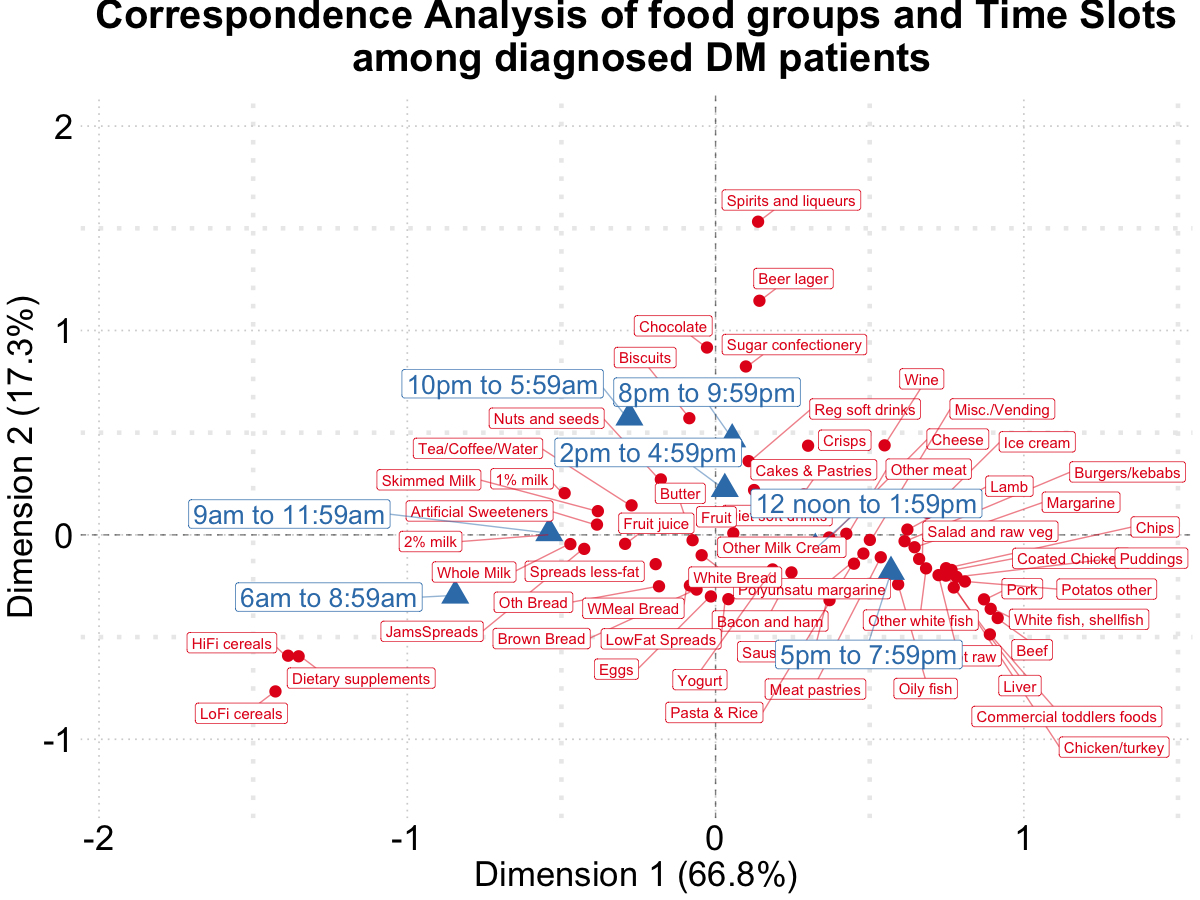
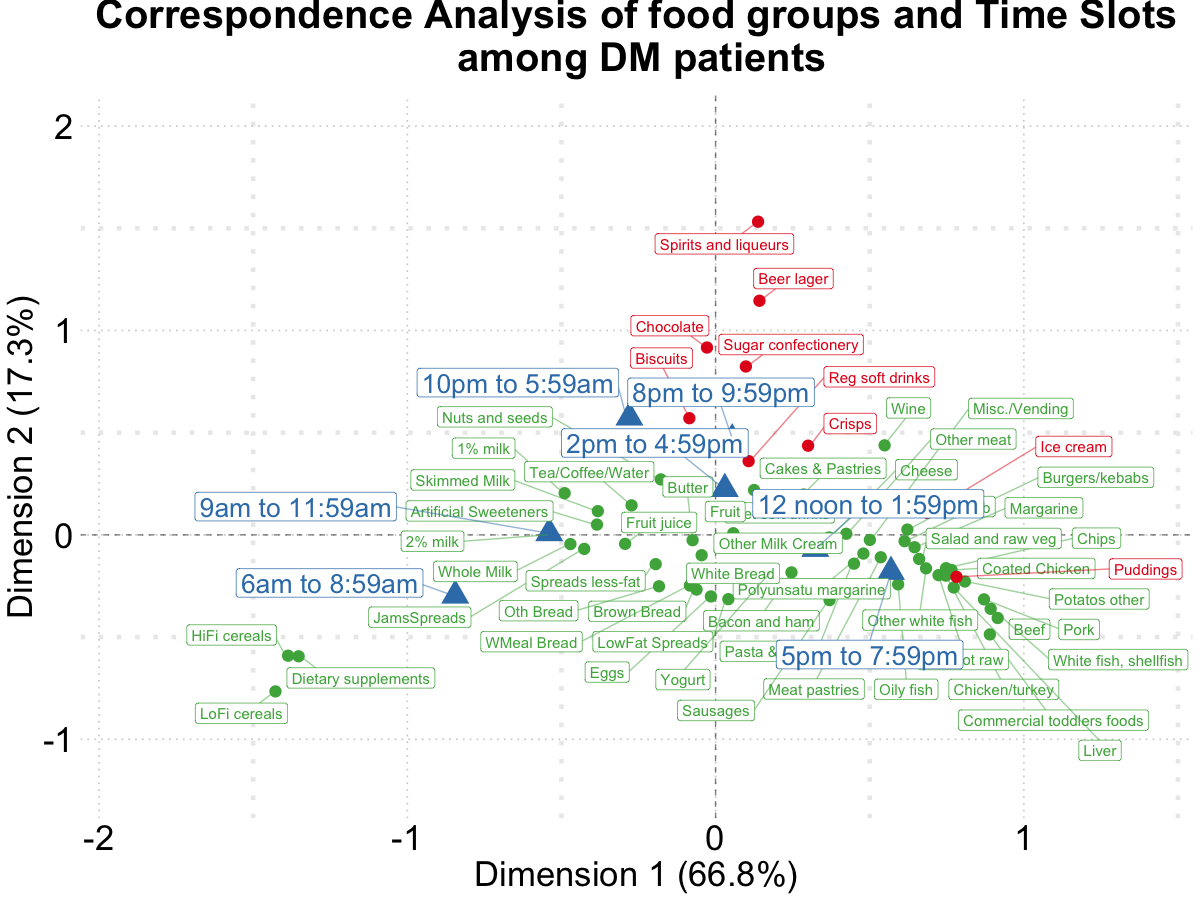
figure color updated

Changed region(s): [[0.1542, 0.3422, 1.0, 0.8711], [0.2775, 0.0311, 0.7708, 0.0933], [0.555, 0.2178, 0.7092, 0.28]]

diff --git a/index.html b/index.html
@@ -755,8 +755,8 @@ background-size: contain
 class: middle, center
 ### The full contingency table of food recordings and eating locations
 .small[
-<div id="htmlwidget-a9d205f41663651dd4ea" style="width:100%;height:auto;" class="datatables html-widget"></div>
-<script type="application/json" data-for="htmlwidget-a9d205f41663651dd4ea">{"x":{"filter":"none","fillContainer":false,"data":[["1% milk","2% milk","Artificial Sweeteners","Bacon and ham","Beef","Beer lager","Biscuits","Brown Bread","Burgers/kebabs","Butter","Cakes & Pastries","Cheese","Chicken/turkey","Chips","Chocolate","Coated Chicken","Commercial toddlers foods","Crisps","Diet soft drinks","Dietary supplements","Eggs","Fruit","Fruit juice","HiFi cereals","Ice cream","JamsSpreads","Lamb","Liver","LoFi cereals","LowFat Spreads","Margarine","Meat pastries","Misc./Vending","Nuts and seeds","Oily fish","Oth Bread","Other meat","Other Milk Cream","Other white fish","Pasta & Rice","Polyunsatu margarine","Pork","Potatos other","Puddings","Reg soft drinks","Salad and raw veg","Sausages","Skimmed Milk","Smoothies","Spirits and liqueurs","Spreads less-fat","Sugar confectionery","Tea/Coffee/Water","Veg not raw","White Bread","White fish, shellfish","Whole Milk","Wine","WMeal Bread","Yogurt"],[0,183,4,81,59,91,105,17,27,64,88,73,95,139,105,46,0,114,265,9,57,101,56,27,35,160,13,2,35,15,45,23,278,8,3,2,10,29,14,222,13,24,65,23,333,120,59,12,2,22,81,41,382,307,179,12,48,21,19,27],[101,4318,119,953,691,92,1407,613,162,940,853,1213,1321,1290,1077,430,5,1211,3936,495,784,2595,1450,1099,362,2956,179,20,1365,352,1107,243,5905,326,143,49,121,442,343,3325,487,255,1234,266,2659,2556,561,259,55,24,1522,387,7798,6122,2718,201,1267,86,491,745],[1,41,0,117,39,108,96,29,108,47,113,139,148,363,120,155,0,98,248,2,48,79,97,3,84,90,6,1,6,5,41,34,420,25,11,4,26,112,40,198,13,30,36,28,673,339,80,1,4,77,59,102,466,258,260,21,14,24,11,17],[2,19,3,42,0,5,95,21,24,17,46,29,43,79,117,35,0,130,76,7,12,119,13,0,21,39,1,0,4,3,7,27,113,8,6,3,10,23,9,35,3,4,6,1,196,91,14,0,3,0,40,100,173,37,103,4,5,0,16,7],[1,49,0,61,14,46,127,28,23,34,68,67,56,105,147,24,0,157,170,21,15,156,44,7,41,73,4,1,9,10,32,35,210,17,5,3,10,28,16,86,7,6,11,4,296,112,27,4,3,16,36,99,407,96,145,4,20,5,14,28],[4,87,1,473,59,0,710,176,31,152,332,451,383,184,331,67,0,667,453,10,47,776,262,8,21,177,6,1,12,93,58,86,677,61,9,18,36,81,109,441,17,28,93,80,567,531,93,0,7,0,478,170,1462,333,989,37,11,2,158,192],[0,71,2,54,7,2,57,25,8,19,27,39,41,33,32,12,0,59,80,3,14,63,18,1,5,79,1,0,1,11,7,11,92,5,1,1,9,7,19,29,5,1,7,6,103,76,13,1,2,0,52,12,318,43,111,3,21,1,17,16]],"container":"<table class=\"display\">\n  <thead>\n    <tr>\n      <th> <\/th>\n      <th>Friend<\/th>\n      <th>Home<\/th>\n      <th>Leis<\/th>\n      <th>Move<\/th>\n      <th>Other<\/th>\n      <th>School<\/th>\n      <th>Work<\/th>\n    <\/tr>\n  <\/thead>\n<\/table>","options":{"pageLength":4,"columnDefs":[{"className":"dt-right","targets":[1,2,3,4,5,6,7]},{"orderable":false,"targets":0}],"order":[],"autoWidth":false,"orderClasses":false,"lengthMenu":[4,10,25,50,100]}},"evals":[],"jsHooks":[]}</script>
+<div id="htmlwidget-0e0bcf6b07ae967ca821" style="width:100%;height:auto;" class="datatables html-widget"></div>
+<script type="application/json" data-for="htmlwidget-0e0bcf6b07ae967ca821">{"x":{"filter":"none","fillContainer":false,"data":[["1% milk","2% milk","Artificial Sweeteners","Bacon and ham","Beef","Beer lager","Biscuits","Brown Bread","Burgers/kebabs","Butter","Cakes & Pastries","Cheese","Chicken/turkey","Chips","Chocolate","Coated Chicken","Commercial toddlers foods","Crisps","Diet soft drinks","Dietary supplements","Eggs","Fruit","Fruit juice","HiFi cereals","Ice cream","JamsSpreads","Lamb","Liver","LoFi cereals","LowFat Spreads","Margarine","Meat pastries","Misc./Vending","Nuts and seeds","Oily fish","Oth Bread","Other meat","Other Milk Cream","Other white fish","Pasta & Rice","Polyunsatu margarine","Pork","Potatos other","Puddings","Reg soft drinks","Salad and raw veg","Sausages","Skimmed Milk","Smoothies","Spirits and liqueurs","Spreads less-fat","Sugar confectionery","Tea/Coffee/Water","Veg not raw","White Bread","White fish, shellfish","Whole Milk","Wine","WMeal Bread","Yogurt"],[0,183,4,81,59,91,105,17,27,64,88,73,95,139,105,46,0,114,265,9,57,101,56,27,35,160,13,2,35,15,45,23,278,8,3,2,10,29,14,222,13,24,65,23,333,120,59,12,2,22,81,41,382,307,179,12,48,21,19,27],[101,4318,119,953,691,92,1407,613,162,940,853,1213,1321,1290,1077,430,5,1211,3936,495,784,2595,1450,1099,362,2956,179,20,1365,352,1107,243,5905,326,143,49,121,442,343,3325,487,255,1234,266,2659,2556,561,259,55,24,1522,387,7798,6122,2718,201,1267,86,491,745],[1,41,0,117,39,108,96,29,108,47,113,139,148,363,120,155,0,98,248,2,48,79,97,3,84,90,6,1,6,5,41,34,420,25,11,4,26,112,40,198,13,30,36,28,673,339,80,1,4,77,59,102,466,258,260,21,14,24,11,17],[2,19,3,42,0,5,95,21,24,17,46,29,43,79,117,35,0,130,76,7,12,119,13,0,21,39,1,0,4,3,7,27,113,8,6,3,10,23,9,35,3,4,6,1,196,91,14,0,3,0,40,100,173,37,103,4,5,0,16,7],[1,49,0,61,14,46,127,28,23,34,68,67,56,105,147,24,0,157,170,21,15,156,44,7,41,73,4,1,9,10,32,35,210,17,5,3,10,28,16,86,7,6,11,4,296,112,27,4,3,16,36,99,407,96,145,4,20,5,14,28],[4,87,1,473,59,0,710,176,31,152,332,451,383,184,331,67,0,667,453,10,47,776,262,8,21,177,6,1,12,93,58,86,677,61,9,18,36,81,109,441,17,28,93,80,567,531,93,0,7,0,478,170,1462,333,989,37,11,2,158,192],[0,71,2,54,7,2,57,25,8,19,27,39,41,33,32,12,0,59,80,3,14,63,18,1,5,79,1,0,1,11,7,11,92,5,1,1,9,7,19,29,5,1,7,6,103,76,13,1,2,0,52,12,318,43,111,3,21,1,17,16]],"container":"<table class=\"display\">\n  <thead>\n    <tr>\n      <th> <\/th>\n      <th>Friend<\/th>\n      <th>Home<\/th>\n      <th>Leis<\/th>\n      <th>Move<\/th>\n      <th>Other<\/th>\n      <th>School<\/th>\n      <th>Work<\/th>\n    <\/tr>\n  <\/thead>\n<\/table>","options":{"pageLength":4,"columnDefs":[{"className":"dt-right","targets":[1,2,3,4,5,6,7]},{"orderable":false,"targets":0}],"order":[],"autoWidth":false,"orderClasses":false,"lengthMenu":[4,10,25,50,100]}},"evals":[],"jsHooks":[]}</script>
 ]
 
 ---
@@ -843,8 +843,8 @@ class: middle
 ### Frequencies and proportions of food recordings by eating locations
 
 .small[
-<div id="htmlwidget-ea1afe683a721c58b9cb" style="width:100%;height:auto;" class="datatables html-widget"></div>
-<script type="application/json" data-for="htmlwidget-ea1afe683a721c58b9cb">{"x":{"filter":"none","fillContainer":false,"data":[["1","2","3","4","5","6","7","8","9","10","11","12","13","14","15","16","17","18","19","20","21","22","23","24","25","26","27","28","29","30","31","32","33","34","35","36"],["Home - Living Room","Home - Kitchen","Home - Dining Room","Home - Unspecified","Home - Bedroom","Friend's or Relative's house","School - Other","School - Canteen - Bought food","School - Canteen - Food from home","Home - Other","Restaurant, pub, night club","Outside - Other","Bus, car, train","School - Playground","Unspecified","Coffee shop, cafe, shop, deli, sandwich bar","Work - Other","Fast food outlet","School - Classroom","Home - Garden","Leisure Activities, shopping, tourist attractions, cinema, places of interest","Sports club, sports leisure venue","Street","Other place","Holiday Accommodation","School - Canteen - Other","Work - Canteen - Food from home","Work - Canteen - Bought food","Work - Desk","Public Hall/Function Room","Not At Home - Unspecified","Work - Canteen - Other","Community Centre/Day Centre/Drop-in","Place of Worship","Carer's home","Nursery/Kindergarten"],[47484,44989,17605,17007,14143,9001,7367,7044,5913,4526,4236,3273,3056,2752,2666,2171,2122,1728,1728,1458,1365,1077,1060,703,641,597,458,444,315,236,230,224,214,161,38,5],["22.825%","21.625%","8.462%","8.175%","6.798%","4.327%","3.541%","3.386%","2.842%","2.176%","2.036%","1.573%","1.469%","1.323%","1.282%","1.044%","1.02%","0.831%","0.831%","0.701%","0.656%","0.518%","0.51%","0.338%","0.308%","0.287%","0.22%","0.213%","0.151%","0.113%","0.111%","0.108%","0.103%","0.077%","0.018%","0.002%"],["22.825%","44.45%","52.913%","61.088%","67.886%","72.213%","75.754%","79.14%","81.982%","84.158%","86.194%","87.767%","89.236%","90.559%","91.84%","92.884%","93.904%","94.735%","95.565%","96.266%","96.922%","97.44%","97.949%","98.287%","98.595%","98.882%","99.103%","99.316%","99.467%","99.581%","99.691%","99.799%","99.902%","99.979%","99.998%","100%"]],"container":"<table class=\"display\">\n  <thead>\n    <tr>\n      <th> <\/th>\n      <th>Where<\/th>\n      <th>n<\/th>\n      <th>rel.freq<\/th>\n      <th>cumprop<\/th>\n    <\/tr>\n  <\/thead>\n<\/table>","options":{"pageLength":5,"columnDefs":[{"className":"dt-right","targets":2},{"orderable":false,"targets":0}],"order":[],"autoWidth":false,"orderClasses":false,"lengthMenu":[5,10,25,50,100]}},"evals":[],"jsHooks":[]}</script>
+<div id="htmlwidget-4e894aa2b3fc6557d12a" style="width:100%;height:auto;" class="datatables html-widget"></div>
+<script type="application/json" data-for="htmlwidget-4e894aa2b3fc6557d12a">{"x":{"filter":"none","fillContainer":false,"data":[["1","2","3","4","5","6","7","8","9","10","11","12","13","14","15","16","17","18","19","20","21","22","23","24","25","26","27","28","29","30","31","32","33","34","35","36"],["Home - Living Room","Home - Kitchen","Home - Dining Room","Home - Unspecified","Home - Bedroom","Friend's or Relative's house","School - Other","School - Canteen - Bought food","School - Canteen - Food from home","Home - Other","Restaurant, pub, night club","Outside - Other","Bus, car, train","School - Playground","Unspecified","Coffee shop, cafe, shop, deli, sandwich bar","Work - Other","Fast food outlet","School - Classroom","Home - Garden","Leisure Activities, shopping, tourist attractions, cinema, places of interest","Sports club, sports leisure venue","Street","Other place","Holiday Accommodation","School - Canteen - Other","Work - Canteen - Food from home","Work - Canteen - Bought food","Work - Desk","Public Hall/Function Room","Not At Home - Unspecified","Work - Canteen - Other","Community Centre/Day Centre/Drop-in","Place of Worship","Carer's home","Nursery/Kindergarten"],[47484,44989,17605,17007,14143,9001,7367,7044,5913,4526,4236,3273,3056,2752,2666,2171,2122,1728,1728,1458,1365,1077,1060,703,641,597,458,444,315,236,230,224,214,161,38,5],["22.825%","21.625%","8.462%","8.175%","6.798%","4.327%","3.541%","3.386%","2.842%","2.176%","2.036%","1.573%","1.469%","1.323%","1.282%","1.044%","1.02%","0.831%","0.831%","0.701%","0.656%","0.518%","0.51%","0.338%","0.308%","0.287%","0.22%","0.213%","0.151%","0.113%","0.111%","0.108%","0.103%","0.077%","0.018%","0.002%"],["22.825%","44.45%","52.913%","61.088%","67.886%","72.213%","75.754%","79.14%","81.982%","84.158%","86.194%","87.767%","89.236%","90.559%","91.84%","92.884%","93.904%","94.735%","95.565%","96.266%","96.922%","97.44%","97.949%","98.287%","98.595%","98.882%","99.103%","99.316%","99.467%","99.581%","99.691%","99.799%","99.902%","99.979%","99.998%","100%"]],"container":"<table class=\"display\">\n  <thead>\n    <tr>\n      <th> <\/th>\n      <th>Where<\/th>\n      <th>n<\/th>\n      <th>rel.freq<\/th>\n      <th>cumprop<\/th>\n    <\/tr>\n  <\/thead>\n<\/table>","options":{"pageLength":5,"columnDefs":[{"className":"dt-right","targets":2},{"orderable":false,"targets":0}],"order":[],"autoWidth":false,"orderClasses":false,"lengthMenu":[5,10,25,50,100]}},"evals":[],"jsHooks":[]}</script>
 ]
 
 ---
@@ -872,16 +872,16 @@ class:
 ### Food groups and contribution to calories
 
 .small[
-<div id="htmlwidget-2a76d6beb78821871020" style="width:100%;height:auto;" class="datatables html-widget"></div>
-<script type="application/json" data-for="htmlwidget-2a76d6beb78821871020">{"x":{"filter":"none","fillContainer":false,"data":[["1","2","3","4","5","6","7","8","9","10","11","12","13","14","15","16","17","18","19","20","21","22","23","24","25","26","27","28","29","30","31","32","33","34","35","36","37","38","39","40","41","42","43","44","45","46","47","48","49","50","51","52","53","54","55","56","57","58","59","60"],["Pasta & Rice","White Bread","Chips","Reg soft drinks","Biscuits","Cakes & Pastries","Crisps","Chocolate","Chicken/turkey","Misc./Vending","2% milk","Cheese","Veg not raw","LoFi cereals","Coated Chicken","Sausages","Fruit","HiFi cereals","Beef","Potatos other","Meat pastries","JamsSpreads","Spreads less-fat","Fruit juice","Brown Bread","Bacon and ham","Burgers/kebabs","Whole Milk","Butter","Yogurt","Eggs","Sugar confectionery","WMeal Bread","Ice cream","Other Milk Cream","Puddings","White fish, shellfish","Pork","Beer lager","Margarine","Other white fish","Nuts and seeds","Lamb","Other meat","Oily fish","Salad and raw veg","Polyunsatu margarine","LowFat Spreads","Spirits and liqueurs","Oth Bread","Diet soft drinks","Wine","Skimmed Milk","Smoothies","Tea/Coffee/Water","1% milk","Liver","Dietary supplements","Commercial toddlers foods","Artificial Sweeteners"],[8625,9180,4383,9650,5101,3090,4752,3855,4155,15474,9561,4049,14371,2806,1477,1627,7742,2381,1774,2946,930,7108,4530,3885,1777,3522,789,2758,2506,2073,2019,1858,1401,1129,1481,822,560,663,647,2494,1097,900,388,428,372,7600,1054,975,276,173,10471,271,579,135,21750,204,50,1108,14,241],[1.45,3.7,0.26,3.1,19.88,18.63,13.39,25.38,0.99,9.9,1,21.99,-7.03,13.42,6.71,15.5,-3.13,4.46,2.11,-1.4,15.44,15.25,23.73,2.07,0.42,15.66,14.28,2.41,24.32,4.69,3.75,13.53,2.03,15.25,9.74,9.16,3.73,4.5,1.26,19.58,0.95,5.33,6.69,19.35,5.04,-7.47,19.94,18.18,4.07,6.04,0.36,1.29,-0.47,2.81,-0.06,0.95,18.5,4.48,15.36,3.09],["4.15%","4.41%","2.11%","4.64%","2.45%","1.49%","2.28%","1.85%","2%","7.44%","4.6%","1.95%","6.91%","1.35%","0.71%","0.78%","3.72%","1.14%","0.85%","1.42%","0.45%","3.42%","2.18%","1.87%","0.85%","1.69%","0.38%","1.33%","1.2%","1%","0.97%","0.89%","0.67%","0.54%","0.71%","0.4%","0.27%","0.32%","0.31%","1.2%","0.53%","0.43%","0.19%","0.21%","0.18%","3.65%","0.51%","0.47%","0.13%","0.08%","5.03%","0.13%","0.28%","0.06%","10.45%","0.1%","0.02%","0.53%","0.01%","0.12%"],["10.51%","8.64%","5.8%","4.93%","4.07%","3.7%","3.61%","3.56%","3.36%","2.89%","2.71%","2.54%","2.31%","2.24%","2.22%","2.1%","1.88%","1.87%","1.86%","1.84%","1.72%","1.64%","1.6%","1.58%","1.57%","1.53%","1.34%","1.27%","1.22%","1.19%","1.16%","1.16%","1.16%","1.09%","1.05%","0.85%","0.72%","0.68%","0.6%","0.55%","0.48%","0.46%","0.46%","0.36%","0.35%","0.26%","0.2%","0.2%","0.16%","0.15%","0.13%","0.11%","0.11%","0.08%","0.06%","0.05%","0.04%","0.02%","0%","0%"],["10.51%","19.149%","24.945%","29.871%","33.945%","37.645%","41.254%","44.817%","48.173%","51.061%","53.767%","56.304%","58.615%","60.852%","63.073%","65.176%","67.059%","68.925%","70.786%","72.631%","74.348%","75.991%","77.589%","79.17%","80.74%","82.268%","83.612%","84.882%","86.102%","87.292%","88.457%","89.616%","90.773%","91.867%","92.913%","93.763%","94.481%","95.158%","95.761%","96.309%","96.787%","97.248%","97.706%","98.066%","98.415%","98.672%","98.876%","99.074%","99.237%","99.391%","99.522%","99.636%","99.743%","99.827%","99.888%","99.942%","99.98%","99.996%","99.999%","100%"]],"container":"<table class=\"display\">\n  <thead>\n    <tr>\n      <th> <\/th>\n      <th>mfgLab<\/th>\n      <th>n<\/th>\n      <th>Hpoint<\/th>\n      <th>n.freq<\/th>\n      <th>cal.Prop<\/th>\n      <th>calcumprop<\/th>\n    <\/tr>\n  <\/thead>\n<\/table>","options":{"pageLength":6,"columnDefs":[{"className":"dt-right","targets":[2,3]},{"orderable":false,"targets":0}],"order":[],"autoWidth":false,"orderClasses":false,"lengthMenu":[6,10,25,50,100]}},"evals":[],"jsHooks":[]}</script>
+<div id="htmlwidget-47e9fecd4b003d858dc5" style="width:100%;height:auto;" class="datatables html-widget"></div>
+<script type="application/json" data-for="htmlwidget-47e9fecd4b003d858dc5">{"x":{"filter":"none","fillContainer":false,"data":[["1","2","3","4","5","6","7","8","9","10","11","12","13","14","15","16","17","18","19","20","21","22","23","24","25","26","27","28","29","30","31","32","33","34","35","36","37","38","39","40","41","42","43","44","45","46","47","48","49","50","51","52","53","54","55","56","57","58","59","60"],["Pasta & Rice","White Bread","Chips","Reg soft drinks","Biscuits","Cakes & Pastries","Crisps","Chocolate","Chicken/turkey","Misc./Vending","2% milk","Cheese","Veg not raw","LoFi cereals","Coated Chicken","Sausages","Fruit","HiFi cereals","Beef","Potatos other","Meat pastries","JamsSpreads","Spreads less-fat","Fruit juice","Brown Bread","Bacon and ham","Burgers/kebabs","Whole Milk","Butter","Yogurt","Eggs","Sugar confectionery","WMeal Bread","Ice cream","Other Milk Cream","Puddings","White fish, shellfish","Pork","Beer lager","Margarine","Other white fish","Nuts and seeds","Lamb","Other meat","Oily fish","Salad and raw veg","Polyunsatu margarine","LowFat Spreads","Spirits and liqueurs","Oth Bread","Diet soft drinks","Wine","Skimmed Milk","Smoothies","Tea/Coffee/Water","1% milk","Liver","Dietary supplements","Commercial toddlers foods","Artificial Sweeteners"],[8625,9180,4383,9650,5101,3090,4752,3855,4155,15474,9561,4049,14371,2806,1477,1627,7742,2381,1774,2946,930,7108,4530,3885,1777,3522,789,2758,2506,2073,2019,1858,1401,1129,1481,822,560,663,647,2494,1097,900,388,428,372,7600,1054,975,276,173,10471,271,579,135,21750,204,50,1108,14,241],[1.45,3.7,0.26,3.1,19.88,18.63,13.39,25.38,0.99,9.9,1,21.99,-7.03,13.42,6.71,15.5,-3.13,4.46,2.11,-1.4,15.44,15.25,23.73,2.07,0.42,15.66,14.28,2.41,24.32,4.69,3.75,13.53,2.03,15.25,9.74,9.16,3.73,4.5,1.26,19.58,0.95,5.33,6.69,19.35,5.04,-7.47,19.94,18.18,4.07,6.04,0.36,1.29,-0.47,2.81,-0.06,0.95,18.5,4.48,15.36,3.09],["4.15%","4.41%","2.11%","4.64%","2.45%","1.49%","2.28%","1.85%","2%","7.44%","4.6%","1.95%","6.91%","1.35%","0.71%","0.78%","3.72%","1.14%","0.85%","1.42%","0.45%","3.42%","2.18%","1.87%","0.85%","1.69%","0.38%","1.33%","1.2%","1%","0.97%","0.89%","0.67%","0.54%","0.71%","0.4%","0.27%","0.32%","0.31%","1.2%","0.53%","0.43%","0.19%","0.21%","0.18%","3.65%","0.51%","0.47%","0.13%","0.08%","5.03%","0.13%","0.28%","0.06%","10.45%","0.1%","0.02%","0.53%","0.01%","0.12%"],["10.51%","8.64%","5.8%","4.93%","4.07%","3.7%","3.61%","3.56%","3.36%","2.89%","2.71%","2.54%","2.31%","2.24%","2.22%","2.1%","1.88%","1.87%","1.86%","1.84%","1.72%","1.64%","1.6%","1.58%","1.57%","1.53%","1.34%","1.27%","1.22%","1.19%","1.16%","1.16%","1.16%","1.09%","1.05%","0.85%","0.72%","0.68%","0.6%","0.55%","0.48%","0.46%","0.46%","0.36%","0.35%","0.26%","0.2%","0.2%","0.16%","0.15%","0.13%","0.11%","0.11%","0.08%","0.06%","0.05%","0.04%","0.02%","0%","0%"],["10.51%","19.149%","24.945%","29.871%","33.945%","37.645%","41.254%","44.817%","48.173%","51.061%","53.767%","56.304%","58.615%","60.852%","63.073%","65.176%","67.059%","68.925%","70.786%","72.631%","74.348%","75.991%","77.589%","79.17%","80.74%","82.268%","83.612%","84.882%","86.102%","87.292%","88.457%","89.616%","90.773%","91.867%","92.913%","93.763%","94.481%","95.158%","95.761%","96.309%","96.787%","97.248%","97.706%","98.066%","98.415%","98.672%","98.876%","99.074%","99.237%","99.391%","99.522%","99.636%","99.743%","99.827%","99.888%","99.942%","99.98%","99.996%","99.999%","100%"]],"container":"<table class=\"display\">\n  <thead>\n    <tr>\n      <th> <\/th>\n      <th>mfgLab<\/th>\n      <th>n<\/th>\n      <th>Hpoint<\/th>\n      <th>n.freq<\/th>\n      <th>cal.Prop<\/th>\n      <th>calcumprop<\/th>\n    <\/tr>\n  <\/thead>\n<\/table>","options":{"pageLength":6,"columnDefs":[{"className":"dt-right","targets":[2,3]},{"orderable":false,"targets":0}],"order":[],"autoWidth":false,"orderClasses":false,"lengthMenu":[6,10,25,50,100]}},"evals":[],"jsHooks":[]}</script>
 ]
 
 ---
 class: middle, center
 ### The full contingency table of food recordings and eating locations
 .small[
-<div id="htmlwidget-8610cc3ab76133494b5f" style="width:100%;height:auto;" class="datatables html-widget"></div>
-<script type="application/json" data-for="htmlwidget-8610cc3ab76133494b5f">{"x":{"filter":"none","fillContainer":false,"data":[["1% milk","2% milk","Artificial Sweeteners","Bacon and ham","Beef","Beer lager","Biscuits","Brown Bread","Burgers/kebabs","Butter","Cakes & Pastries","Cheese","Chicken/turkey","Chips","Chocolate","Coated Chicken","Commercial toddlers foods","Crisps","Diet soft drinks","Dietary supplements","Eggs","Fruit","Fruit juice","HiFi cereals","Ice cream","JamsSpreads","Lamb","Liver","LoFi cereals","LowFat Spreads","Margarine","Meat pastries","Misc./Vending","Nuts and seeds","Oily fish","Oth Bread","Other meat","Other Milk Cream","Other white fish","Pasta & Rice","Polyunsatu margarine","Pork","Potatos other","Puddings","Reg soft drinks","Salad and raw veg","Sausages","Skimmed Milk","Smoothies","Spirits and liqueurs","Spreads less-fat","Sugar confectionery","Tea/Coffee/Water","Veg not raw","White Bread","White fish, shellfish","Whole Milk","Wine","WMeal Bread","Yogurt"],[0,183,4,81,59,91,105,17,27,64,88,73,95,139,105,46,0,114,265,9,57,101,56,27,35,160,13,2,35,15,45,23,278,8,3,2,10,29,14,222,13,24,65,23,333,120,59,12,2,22,81,41,382,307,179,12,48,21,19,27],[101,4318,119,953,691,92,1407,613,162,940,853,1213,1321,1290,1077,430,5,1211,3936,495,784,2595,1450,1099,362,2956,179,20,1365,352,1107,243,5905,326,143,49,121,442,343,3325,487,255,1234,266,2659,2556,561,259,55,24,1522,387,7798,6122,2718,201,1267,86,491,745],[1,41,0,117,39,108,96,29,108,47,113,139,148,363,120,155,0,98,248,2,48,79,97,3,84,90,6,1,6,5,41,34,420,25,11,4,26,112,40,198,13,30,36,28,673,339,80,1,4,77,59,102,466,258,260,21,14,24,11,17],[2,19,3,42,0,5,95,21,24,17,46,29,43,79,117,35,0,130,76,7,12,119,13,0,21,39,1,0,4,3,7,27,113,8,6,3,10,23,9,35,3,4,6,1,196,91,14,0,3,0,40,100,173,37,103,4,5,0,16,7],[1,49,0,61,14,46,127,28,23,34,68,67,56,105,147,24,0,157,170,21,15,156,44,7,41,73,4,1,9,10,32,35,210,17,5,3,10,28,16,86,7,6,11,4,296,112,27,4,3,16,36,99,407,96,145,4,20,5,14,28],[4,87,1,473,59,0,710,176,31,152,332,451,383,184,331,67,0,667,453,10,47,776,262,8,21,177,6,1,12,93,58,86,677,61,9,18,36,81,109,441,17,28,93,80,567,531,93,0,7,0,478,170,1462,333,989,37,11,2,158,192],[0,71,2,54,7,2,57,25,8,19,27,39,41,33,32,12,0,59,80,3,14,63,18,1,5,79,1,0,1,11,7,11,92,5,1,1,9,7,19,29,5,1,7,6,103,76,13,1,2,0,52,12,318,43,111,3,21,1,17,16]],"container":"<table class=\"display\">\n  <thead>\n    <tr>\n      <th> <\/th>\n      <th>Friend<\/th>\n      <th>Home<\/th>\n      <th>Leis<\/th>\n      <th>Move<\/th>\n      <th>Other<\/th>\n      <th>School<\/th>\n      <th>Work<\/th>\n    <\/tr>\n  <\/thead>\n<\/table>","options":{"pageLength":4,"columnDefs":[{"className":"dt-right","targets":[1,2,3,4,5,6,7]},{"orderable":false,"targets":0}],"order":[],"autoWidth":false,"orderClasses":false,"lengthMenu":[4,10,25,50,100]}},"evals":[],"jsHooks":[]}</script>
+<div id="htmlwidget-1f745f775d1f492ccb91" style="width:100%;height:auto;" class="datatables html-widget"></div>
+<script type="application/json" data-for="htmlwidget-1f745f775d1f492ccb91">{"x":{"filter":"none","fillContainer":false,"data":[["1% milk","2% milk","Artificial Sweeteners","Bacon and ham","Beef","Beer lager","Biscuits","Brown Bread","Burgers/kebabs","Butter","Cakes & Pastries","Cheese","Chicken/turkey","Chips","Chocolate","Coated Chicken","Commercial toddlers foods","Crisps","Diet soft drinks","Dietary supplements","Eggs","Fruit","Fruit juice","HiFi cereals","Ice cream","JamsSpreads","Lamb","Liver","LoFi cereals","LowFat Spreads","Margarine","Meat pastries","Misc./Vending","Nuts and seeds","Oily fish","Oth Bread","Other meat","Other Milk Cream","Other white fish","Pasta & Rice","Polyunsatu margarine","Pork","Potatos other","Puddings","Reg soft drinks","Salad and raw veg","Sausages","Skimmed Milk","Smoothies","Spirits and liqueurs","Spreads less-fat","Sugar confectionery","Tea/Coffee/Water","Veg not raw","White Bread","White fish, shellfish","Whole Milk","Wine","WMeal Bread","Yogurt"],[0,183,4,81,59,91,105,17,27,64,88,73,95,139,105,46,0,114,265,9,57,101,56,27,35,160,13,2,35,15,45,23,278,8,3,2,10,29,14,222,13,24,65,23,333,120,59,12,2,22,81,41,382,307,179,12,48,21,19,27],[101,4318,119,953,691,92,1407,613,162,940,853,1213,1321,1290,1077,430,5,1211,3936,495,784,2595,1450,1099,362,2956,179,20,1365,352,1107,243,5905,326,143,49,121,442,343,3325,487,255,1234,266,2659,2556,561,259,55,24,1522,387,7798,6122,2718,201,1267,86,491,745],[1,41,0,117,39,108,96,29,108,47,113,139,148,363,120,155,0,98,248,2,48,79,97,3,84,90,6,1,6,5,41,34,420,25,11,4,26,112,40,198,13,30,36,28,673,339,80,1,4,77,59,102,466,258,260,21,14,24,11,17],[2,19,3,42,0,5,95,21,24,17,46,29,43,79,117,35,0,130,76,7,12,119,13,0,21,39,1,0,4,3,7,27,113,8,6,3,10,23,9,35,3,4,6,1,196,91,14,0,3,0,40,100,173,37,103,4,5,0,16,7],[1,49,0,61,14,46,127,28,23,34,68,67,56,105,147,24,0,157,170,21,15,156,44,7,41,73,4,1,9,10,32,35,210,17,5,3,10,28,16,86,7,6,11,4,296,112,27,4,3,16,36,99,407,96,145,4,20,5,14,28],[4,87,1,473,59,0,710,176,31,152,332,451,383,184,331,67,0,667,453,10,47,776,262,8,21,177,6,1,12,93,58,86,677,61,9,18,36,81,109,441,17,28,93,80,567,531,93,0,7,0,478,170,1462,333,989,37,11,2,158,192],[0,71,2,54,7,2,57,25,8,19,27,39,41,33,32,12,0,59,80,3,14,63,18,1,5,79,1,0,1,11,7,11,92,5,1,1,9,7,19,29,5,1,7,6,103,76,13,1,2,0,52,12,318,43,111,3,21,1,17,16]],"container":"<table class=\"display\">\n  <thead>\n    <tr>\n      <th> <\/th>\n      <th>Friend<\/th>\n      <th>Home<\/th>\n      <th>Leis<\/th>\n      <th>Move<\/th>\n      <th>Other<\/th>\n      <th>School<\/th>\n      <th>Work<\/th>\n    <\/tr>\n  <\/thead>\n<\/table>","options":{"pageLength":4,"columnDefs":[{"className":"dt-right","targets":[1,2,3,4,5,6,7]},{"orderable":false,"targets":0}],"order":[],"autoWidth":false,"orderClasses":false,"lengthMenu":[4,10,25,50,100]}},"evals":[],"jsHooks":[]}</script>
 ]
 
 
@@ -1379,8 +1379,8 @@ class: middle
 
 
 .small[
-<div id="htmlwidget-43c9263f6f4523d7a843" style="width:100%;height:auto;" class="datatables html-widget"></div>
-<script type="application/json" data-for="htmlwidget-43c9263f6f4523d7a843">{"x":{"filter":"none","fillContainer":false,"data":[["1","2","3","4","5","6","7","8","9","10","11","12","13","14","15","16","17","18","19","20","21","22","23","24","25","26","27","28","29","30","31","32","33","34","35","36","37","38","39","40","41","42","43","44","45","46","47","48","49","50","51","52","53","54","55","56","57","58","59","60"],["Pasta & Rice","White Bread","Chips","Cakes & Pastries","Veg not raw","Biscuits","Fruit","Misc./Vending","Chicken/turkey","Cheese","Beer lager","2% milk","Potatos other","JamsSpreads","Beef","HiFi cereals","WMeal Bread","Chocolate","Wine","Brown Bread","Butter","Eggs","Reg soft drinks","Spreads less-fat","Crisps","Sausages","Meat pastries","Bacon and ham","Yogurt","LoFi cereals","Nuts and seeds","Oily fish","Whole Milk","White fish, shellfish","Puddings","Other Milk Cream","Pork","Fruit juice","Margarine","Coated Chicken","Other white fish","Lamb","Burgers/kebabs","Ice cream","Salad and raw veg","Spirits and liqueurs","Other meat","Tea/Coffee/Water","Skimmed Milk","Sugar confectionery","Oth Bread","LowFat Spreads","Polyunsatu margarine","Liver","Dietary supplements","Diet soft drinks","1% milk","Smoothies","Artificial Sweeteners","Commercial toddlers foods"],[18353,18434,6749,7806,51317,13200,33903,48597,8863,10983,8199,57611,10113,37960,4987,8215,7193,6495,6967,6183,10203,7554,11387,12620,5664,3025,1979,8467,6776,4303,6259,2610,13628,1597,2291,6605,1832,6960,8742,1170,3703,1251,939,1816,33263,2698,1571,152108,9683,1820,932,3654,3179,454,13016,14155,1263,137,7518,66],[-0.3,3.61,0.09,17.3,-7.03,18.3,-2.81,9.49,0.53,21.54,0.99,1.02,-1.49,14.69,2.34,2.78,2.08,24.9,1.33,1.11,24.35,3.7,3.31,23.45,12.98,15.32,14.77,15.48,3.22,11.62,4.37,6.21,2.24,3.99,8.4,11.58,3.88,1.79,19.59,6.43,1.28,6.42,14.56,15.43,-7.03,4.03,17.03,-0.24,-0.54,14.5,4.96,18.05,19.96,13.57,5.16,0.32,0.97,2.93,1.6,18.55],["2.45%","2.46%","0.9%","1.04%","6.85%","1.76%","4.53%","6.49%","1.18%","1.47%","1.09%","7.69%","1.35%","5.07%","0.67%","1.1%","0.96%","0.87%","0.93%","0.83%","1.36%","1.01%","1.52%","1.68%","0.76%","0.4%","0.26%","1.13%","0.9%","0.57%","0.84%","0.35%","1.82%","0.21%","0.31%","0.88%","0.24%","0.93%","1.17%","0.16%","0.49%","0.17%","0.13%","0.24%","4.44%","0.36%","0.21%","20.31%","1.29%","0.24%","0.12%","0.49%","0.42%","0.06%","1.74%","1.89%","0.17%","0.02%","1%","0.01%"],["7.36%","6.8%","3.95%","3.59%","3.49%","3.49%","3.44%","3.44%","3.39%","3.13%","3.11%","2.73%","2.71%","2.55%","2.36%","2.25%","2.24%","2.19%","2.15%","2.12%","2.02%","2.02%","1.97%","1.78%","1.75%","1.62%","1.56%","1.55%","1.4%","1.17%","1.17%","1.15%","1.11%","1.05%","0.96%","0.91%","0.88%","0.88%","0.86%","0.75%","0.74%","0.72%","0.69%","0.65%","0.62%","0.6%","0.57%","0.37%","0.35%","0.34%","0.31%","0.28%","0.27%","0.14%","0.09%","0.07%","0.06%","0.04%","0.01%","0%"],["7.362%","14.166%","18.116%","21.701%","25.193%","28.678%","32.12%","35.555%","38.947%","42.074%","45.185%","47.916%","50.623%","53.171%","55.528%","57.777%","60.022%","62.215%","64.369%","66.484%","68.509%","70.532%","72.503%","74.283%","76.035%","77.659%","79.22%","80.769%","82.164%","83.338%","84.512%","85.666%","86.778%","87.824%","88.788%","89.698%","90.579%","91.459%","92.319%","93.073%","93.818%","94.535%","95.224%","95.873%","96.495%","97.096%","97.665%","98.033%","98.387%","98.732%","99.045%","99.327%","99.593%","99.734%","99.828%","99.897%","99.955%","99.99%","99.996%","100%"]],"container":"<table class=\"display\">\n  <thead>\n    <tr>\n      <th> <\/th>\n      <th>mfgLab<\/th>\n      <th>n<\/th>\n      <th>Hpoint<\/th>\n      <th>n.freq<\/th>\n      <th>cal.Prop<\/th>\n      <th>calcumprop<\/th>\n    <\/tr>\n  <\/thead>\n<\/table>","options":{"pageLength":6,"columnDefs":[{"className":"dt-right","targets":[2,3]},{"orderable":false,"targets":0}],"order":[],"autoWidth":false,"orderClasses":false,"lengthMenu":[6,10,25,50,100]}},"evals":[],"jsHooks":[]}</script>
+<div id="htmlwidget-2abf250ed4303dcf5647" style="width:100%;height:auto;" class="datatables html-widget"></div>
+<script type="application/json" data-for="htmlwidget-2abf250ed4303dcf5647">{"x":{"filter":"none","fillContainer":false,"data":[["1","2","3","4","5","6","7","8","9","10","11","12","13","14","15","16","17","18","19","20","21","22","23","24","25","26","27","28","29","30","31","32","33","34","35","36","37","38","39","40","41","42","43","44","45","46","47","48","49","50","51","52","53","54","55","56","57","58","59","60"],["Pasta & Rice","White Bread","Chips","Cakes & Pastries","Veg not raw","Biscuits","Fruit","Misc./Vending","Chicken/turkey","Cheese","Beer lager","2% milk","Potatos other","JamsSpreads","Beef","HiFi cereals","WMeal Bread","Chocolate","Wine","Brown Bread","Butter","Eggs","Reg soft drinks","Spreads less-fat","Crisps","Sausages","Meat pastries","Bacon and ham","Yogurt","LoFi cereals","Nuts and seeds","Oily fish","Whole Milk","White fish, shellfish","Puddings","Other Milk Cream","Pork","Fruit juice","Margarine","Coated Chicken","Other white fish","Lamb","Burgers/kebabs","Ice cream","Salad and raw veg","Spirits and liqueurs","Other meat","Tea/Coffee/Water","Skimmed Milk","Sugar confectionery","Oth Bread","LowFat Spreads","Polyunsatu margarine","Liver","Dietary supplements","Diet soft drinks","1% milk","Smoothies","Artificial Sweeteners","Commercial toddlers foods"],[18353,18434,6749,7806,51317,13200,33903,48597,8863,10983,8199,57611,10113,37960,4987,8215,7193,6495,6967,6183,10203,7554,11387,12620,5664,3025,1979,8467,6776,4303,6259,2610,13628,1597,2291,6605,1832,6960,8742,1170,3703,1251,939,1816,33263,2698,1571,152108,9683,1820,932,3654,3179,454,13016,14155,1263,137,7518,66],[-0.3,3.61,0.09,17.3,-7.03,18.3,-2.81,9.49,0.53,21.54,0.99,1.02,-1.49,14.69,2.34,2.78,2.08,24.9,1.33,1.11,24.35,3.7,3.31,23.45,12.98,15.32,14.77,15.48,3.22,11.62,4.37,6.21,2.24,3.99,8.4,11.58,3.88,1.79,19.59,6.43,1.28,6.42,14.56,15.43,-7.03,4.03,17.03,-0.24,-0.54,14.5,4.96,18.05,19.96,13.57,5.16,0.32,0.97,2.93,1.6,18.55],["2.45%","2.46%","0.9%","1.04%","6.85%","1.76%","4.53%","6.49%","1.18%","1.47%","1.09%","7.69%","1.35%","5.07%","0.67%","1.1%","0.96%","0.87%","0.93%","0.83%","1.36%","1.01%","1.52%","1.68%","0.76%","0.4%","0.26%","1.13%","0.9%","0.57%","0.84%","0.35%","1.82%","0.21%","0.31%","0.88%","0.24%","0.93%","1.17%","0.16%","0.49%","0.17%","0.13%","0.24%","4.44%","0.36%","0.21%","20.31%","1.29%","0.24%","0.12%","0.49%","0.42%","0.06%","1.74%","1.89%","0.17%","0.02%","1%","0.01%"],["7.36%","6.8%","3.95%","3.59%","3.49%","3.49%","3.44%","3.44%","3.39%","3.13%","3.11%","2.73%","2.71%","2.55%","2.36%","2.25%","2.24%","2.19%","2.15%","2.12%","2.02%","2.02%","1.97%","1.78%","1.75%","1.62%","1.56%","1.55%","1.4%","1.17%","1.17%","1.15%","1.11%","1.05%","0.96%","0.91%","0.88%","0.88%","0.86%","0.75%","0.74%","0.72%","0.69%","0.65%","0.62%","0.6%","0.57%","0.37%","0.35%","0.34%","0.31%","0.28%","0.27%","0.14%","0.09%","0.07%","0.06%","0.04%","0.01%","0%"],["7.362%","14.166%","18.116%","21.701%","25.193%","28.678%","32.12%","35.555%","38.947%","42.074%","45.185%","47.916%","50.623%","53.171%","55.528%","57.777%","60.022%","62.215%","64.369%","66.484%","68.509%","70.532%","72.503%","74.283%","76.035%","77.659%","79.22%","80.769%","82.164%","83.338%","84.512%","85.666%","86.778%","87.824%","88.788%","89.698%","90.579%","91.459%","92.319%","93.073%","93.818%","94.535%","95.224%","95.873%","96.495%","97.096%","97.665%","98.033%","98.387%","98.732%","99.045%","99.327%","99.593%","99.734%","99.828%","99.897%","99.955%","99.99%","99.996%","100%"]],"container":"<table class=\"display\">\n  <thead>\n    <tr>\n      <th> <\/th>\n      <th>mfgLab<\/th>\n      <th>n<\/th>\n      <th>Hpoint<\/th>\n      <th>n.freq<\/th>\n      <th>cal.Prop<\/th>\n      <th>calcumprop<\/th>\n    <\/tr>\n  <\/thead>\n<\/table>","options":{"pageLength":6,"columnDefs":[{"className":"dt-right","targets":[2,3]},{"orderable":false,"targets":0}],"order":[],"autoWidth":false,"orderClasses":false,"lengthMenu":[6,10,25,50,100]}},"evals":[],"jsHooks":[]}</script>
 ]
 
 
@@ -1389,8 +1389,8 @@ class: middle, center
 ### The full contingency table of food recordings and time slots
 
 .tiny[
-<div id="htmlwidget-781110ca4cb667ae0bef" style="width:100%;height:auto;" class="datatables html-widget"></div>
-<script type="application/json" data-for="htmlwidget-781110ca4cb667ae0bef">{"x":{"filter":"none","fillContainer":false,"data":[["1% milk","2% milk","Artificial Sweeteners","Bacon and ham","Beef","Beer lager","Biscuits","Brown Bread","Burgers/kebabs","Butter","Cakes & Pastries","Cheese","Chicken/turkey","Chips","Chocolate","Coated Chicken","Commercial toddlers foods","Crisps","Diet soft drinks","Dietary supplements","Eggs","Fruit","Fruit juice","HiFi cereals","Ice cream","JamsSpreads","Lamb","Liver","LoFi cereals","LowFat Spreads","Margarine","Meat pastries","Misc./Vending","Nuts and seeds","Oily fish","Oth Bread","Other meat","Other Milk Cream","Other white fish","Pasta & Rice","Polyunsatu margarine","Pork","Potatos other","Puddings","Reg soft drinks","Salad and raw veg","Sausages","Skimmed Milk","Smoothies","Spirits and liqueurs","Spreads less-fat","Sugar confectionery","Tea/Coffee/Water","Veg not raw","White Bread","White fish, shellfish","Whole Milk","Wine","WMeal Bread","Yogurt"],[189,7513,920,209,3,11,417,540,0,812,182,131,19,19,52,0,3,11,361,4685,424,2631,992,2534,0,4639,1,10,1212,330,137,11,877,645,26,76,40,610,8,694,51,4,13,13,295,165,70,1416,12,3,983,40,14297,203,1195,1,1654,3,683,524],[137,6844,832,757,28,34,1173,567,14,876,597,381,96,96,349,6,3,270,679,1244,810,3012,592,1255,8,4477,3,14,704,323,317,68,1608,528,47,79,86,535,58,545,95,15,44,39,551,620,266,1047,14,9,1262,125,16103,669,1775,6,1584,11,674,435],[50,3262,467,1707,435,253,1130,1073,112,1243,778,1916,1011,624,470,115,15,875,1167,137,915,3700,536,102,93,2283,113,72,80,533,802,308,5795,466,414,162,257,446,604,1574,264,169,982,246,1052,5822,301,509,20,31,1776,113,10587,5299,2748,148,792,184,1178,803],[66,3986,591,453,254,440,1405,287,81,548,891,656,571,442,728,91,6,520,1076,74,378,2341,337,41,143,2504,72,20,37,151,448,140,2720,401,147,51,100,431,194,925,143,102,536,147,969,1878,151,626,10,71,549,243,11780,2559,908,72,851,178,296,326],[79,3124,410,906,1462,1014,813,363,219,1085,857,1563,2039,1727,522,300,11,443,1916,121,960,2937,650,43,399,2518,296,76,40,309,1946,349,9386,498,572,70,207,780,673,3934,753,475,2987,498,1396,6086,578,510,4,297,1049,164,10414,13693,1643,448,919,1317,474,808],[48,2530,337,213,306,1467,1013,178,49,385,465,644,544,376,834,64,4,501,1199,121,262,1793,294,69,210,1673,99,23,48,101,663,104,2990,394,151,19,78,386,244,1259,228,107,434,155,920,1814,111,436,4,518,424,165,7327,3022,660,85,645,1376,185,372],[35,1533,219,57,38,826,614,87,12,145,177,182,103,83,303,20,0,228,674,179,56,518,134,95,44,912,16,2,75,45,91,29,859,153,17,13,18,139,39,270,39,7,36,53,527,301,15,309,1,403,190,82,5544,314,280,5,442,376,92,114]],"container":"<table class=\"display\">\n  <thead>\n    <tr>\n      <th> <\/th>\n      <th>6am to 8:59am<\/th>\n      <th>9am to 11:59am<\/th>\n      <th>12 noon to 1:59pm<\/th>\n      <th>2pm to 4:59pm<\/th>\n      <th>5pm to 7:59pm<\/th>\n      <th>8pm to 9:59pm<\/th>\n      <th>10pm to 5:59am<\/th>\n    <\/tr>\n  <\/thead>\n<\/table>","options":{"pageLength":5,"columnDefs":[{"className":"dt-right","targets":[1,2,3,4,5,6,7]},{"orderable":false,"targets":0}],"order":[],"autoWidth":false,"orderClasses":false,"lengthMenu":[5,10,25,50,100]}},"evals":[],"jsHooks":[]}</script>
+<div id="htmlwidget-42432d057cfef9bf254b" style="width:100%;height:auto;" class="datatables html-widget"></div>
+<script type="application/json" data-for="htmlwidget-42432d057cfef9bf254b">{"x":{"filter":"none","fillContainer":false,"data":[["1% milk","2% milk","Artificial Sweeteners","Bacon and ham","Beef","Beer lager","Biscuits","Brown Bread","Burgers/kebabs","Butter","Cakes & Pastries","Cheese","Chicken/turkey","Chips","Chocolate","Coated Chicken","Commercial toddlers foods","Crisps","Diet soft drinks","Dietary supplements","Eggs","Fruit","Fruit juice","HiFi cereals","Ice cream","JamsSpreads","Lamb","Liver","LoFi cereals","LowFat Spreads","Margarine","Meat pastries","Misc./Vending","Nuts and seeds","Oily fish","Oth Bread","Other meat","Other Milk Cream","Other white fish","Pasta & Rice","Polyunsatu margarine","Pork","Potatos other","Puddings","Reg soft drinks","Salad and raw veg","Sausages","Skimmed Milk","Smoothies","Spirits and liqueurs","Spreads less-fat","Sugar confectionery","Tea/Coffee/Water","Veg not raw","White Bread","White fish, shellfish","Whole Milk","Wine","WMeal Bread","Yogurt"],[189,7513,920,209,3,11,417,540,0,812,182,131,19,19,52,0,3,11,361,4685,424,2631,992,2534,0,4639,1,10,1212,330,137,11,877,645,26,76,40,610,8,694,51,4,13,13,295,165,70,1416,12,3,983,40,14297,203,1195,1,1654,3,683,524],[137,6844,832,757,28,34,1173,567,14,876,597,381,96,96,349,6,3,270,679,1244,810,3012,592,1255,8,4477,3,14,704,323,317,68,1608,528,47,79,86,535,58,545,95,15,44,39,551,620,266,1047,14,9,1262,125,16103,669,1775,6,1584,11,674,435],[50,3262,467,1707,435,253,1130,1073,112,1243,778,1916,1011,624,470,115,15,875,1167,137,915,3700,536,102,93,2283,113,72,80,533,802,308,5795,466,414,162,257,446,604,1574,264,169,982,246,1052,5822,301,509,20,31,1776,113,10587,5299,2748,148,792,184,1178,803],[66,3986,591,453,254,440,1405,287,81,548,891,656,571,442,728,91,6,520,1076,74,378,2341,337,41,143,2504,72,20,37,151,448,140,2720,401,147,51,100,431,194,925,143,102,536,147,969,1878,151,626,10,71,549,243,11780,2559,908,72,851,178,296,326],[79,3124,410,906,1462,1014,813,363,219,1085,857,1563,2039,1727,522,300,11,443,1916,121,960,2937,650,43,399,2518,296,76,40,309,1946,349,9386,498,572,70,207,780,673,3934,753,475,2987,498,1396,6086,578,510,4,297,1049,164,10414,13693,1643,448,919,1317,474,808],[48,2530,337,213,306,1467,1013,178,49,385,465,644,544,376,834,64,4,501,1199,121,262,1793,294,69,210,1673,99,23,48,101,663,104,2990,394,151,19,78,386,244,1259,228,107,434,155,920,1814,111,436,4,518,424,165,7327,3022,660,85,645,1376,185,372],[35,1533,219,57,38,826,614,87,12,145,177,182,103,83,303,20,0,228,674,179,56,518,134,95,44,912,16,2,75,45,91,29,859,153,17,13,18,139,39,270,39,7,36,53,527,301,15,309,1,403,190,82,5544,314,280,5,442,376,92,114]],"container":"<table class=\"display\">\n  <thead>\n    <tr>\n      <th> <\/th>\n      <th>6am to 8:59am<\/th>\n      <th>9am to 11:59am<\/th>\n      <th>12 noon to 1:59pm<\/th>\n      <th>2pm to 4:59pm<\/th>\n      <th>5pm to 7:59pm<\/th>\n      <th>8pm to 9:59pm<\/th>\n      <th>10pm to 5:59am<\/th>\n    <\/tr>\n  <\/thead>\n<\/table>","options":{"pageLength":5,"columnDefs":[{"className":"dt-right","targets":[1,2,3,4,5,6,7]},{"orderable":false,"targets":0}],"order":[],"autoWidth":false,"orderClasses":false,"lengthMenu":[5,10,25,50,100]}},"evals":[],"jsHooks":[]}</script>
 ]
 
 
@@ -1467,13 +1467,13 @@ background-size: contain
 
 
 ---
-background-image: url("./img/F60T7_undiaDM.png")
+background-image: url("./img/F60T7_UndiagDM.png")
 background-position: 50% 50%
 background-size: contain
 
 ???
 
-- Among undiagnosed DM patients, sugar, chocolate, Beer, regular soft drinks, wine, Puddings seems to apear to shown in later time slots. 
+- Among undiagnosed DM patients, sugar, chocolate, Beer, regular soft drinks, wine, ice cream, Puddings seems to apear to shown in later time slots. 
 
 
 ---
@@ -1491,8 +1491,8 @@ class:center
 
 
 .small[
-<div id="htmlwidget-f6fc8f70cf506c057449" style="width:100%;height:auto;" class="datatables html-widget"></div>
-<script type="application/json" data-for="htmlwidget-f6fc8f70cf506c057449">{"x":{"filter":"none","fillContainer":false,"data":[["1","2","3","4","5","6","7","8","9"],["Pudding","Sweetened Soft drink","Sugar Confectionery","Chocolate","Spirit","Beer","Ice cream","Biscuit","Crisp"],["1.38 (1.03, 1.86)","1.74 (1.47, 2.06)","1.92 (1.38, 2.69)","3.19 (2.69. 3.79)","11.13 (8.37, 14.80)","7.19 (5.87, 8.82)","2.38 (1.79, 3.15)","1.91 (1.67, 2.16)","1.55 (1.27, 1.88)"],["1.50 (1.10, 2.07)","1.72 (1.43, 2.06)","1.63 (1.14, 2.32)","3.10 (2.57, 3.73)","10.86 (8.01, 14.73)","7.49 (6.02, 9.34)","2.45 (1.82, 3.31)","1.78 (2.16, 5.71)","1.56 (1.27, 1.92)"],["0.89 (0.16, 4.87)","1.87 (0.97, 3.57)","2.10 (0.52, 8.46)","4.07 (2.58, 3.73)","8.48 (2.26, 31.79)","4.05 (2.00, 8.20)","3.32 (0.75, 14.62)","3.51 (2.16, 5.71)","1.95 (0.79, 4.78)"],["1.81 (0.41, 7.98)","2.72 (1.44, 5.14)","13.07 (4.59, 37.24)","0.92 (-0.05, 1.90)","7.51 (1.99, 5.21)","7.87 (3.51, 17.63)","0.98 (0.14, 7.00)","2.75 (1.35, 5.59)","1.37 (0.37, 5.12)"],["0.58 (0.14, 2.43)","1.38 (0.65, 2.96)","5.10 (2.15, 12.09)","5.13 (2.55, 10.30)","36.8 (7.36, 183.66)","6.32 (2.29, 17.47)","1.65 (0.54, 5.07)","2.44 (1.54, 3.88)","1.16 (0.49, 2.75)"]],"container":"<table class=\"display\">\n  <thead>\n    <tr>\n      <th> <\/th>\n      <th>H0<\/th>\n      <th>Overall<\/th>\n      <th>Non-DM<\/th>\n      <th>Pre-DM<\/th>\n      <th>Undiag-DM<\/th>\n      <th>DM<\/th>\n    <\/tr>\n  <\/thead>\n<\/table>","options":{"pageLength":3,"order":[],"autoWidth":false,"orderClasses":false,"columnDefs":[{"orderable":false,"targets":0}],"lengthMenu":[3,10,25,50,100]}},"evals":[],"jsHooks":[]}</script>
+<div id="htmlwidget-4921ebc87a0ac9b676b7" style="width:100%;height:auto;" class="datatables html-widget"></div>
+<script type="application/json" data-for="htmlwidget-4921ebc87a0ac9b676b7">{"x":{"filter":"none","fillContainer":false,"data":[["1","2","3","4","5","6","7","8","9"],["Pudding","Sweetened Soft drink","Sugar Confectionery","Chocolate","Spirit","Beer","Ice cream","Biscuit","Crisp"],["1.38 (1.03, 1.86)","1.74 (1.47, 2.06)","1.92 (1.38, 2.69)","3.19 (2.69. 3.79)","11.13 (8.37, 14.80)","7.19 (5.87, 8.82)","2.38 (1.79, 3.15)","1.91 (1.67, 2.16)","1.55 (1.27, 1.88)"],["1.50 (1.10, 2.07)","1.72 (1.43, 2.06)","1.63 (1.14, 2.32)","3.10 (2.57, 3.73)","10.86 (8.01, 14.73)","7.49 (6.02, 9.34)","2.45 (1.82, 3.31)","1.78 (2.16, 5.71)","1.56 (1.27, 1.92)"],["0.89 (0.16, 4.87)","1.87 (0.97, 3.57)","2.10 (0.52, 8.46)","4.07 (2.58, 3.73)","8.48 (2.26, 31.79)","4.05 (2.00, 8.20)","3.32 (0.75, 14.62)","3.51 (2.16, 5.71)","1.95 (0.79, 4.78)"],["1.81 (0.41, 7.98)","2.72 (1.44, 5.14)","13.07 (4.59, 37.24)","0.92 (-0.05, 1.90)","7.51 (1.99, 5.21)","7.87 (3.51, 17.63)","0.98 (0.14, 7.00)","2.75 (1.35, 5.59)","1.37 (0.37, 5.12)"],["0.58 (0.14, 2.43)","1.38 (0.65, 2.96)","5.10 (2.15, 12.09)","5.13 (2.55, 10.30)","36.8 (7.36, 183.66)","6.32 (2.29, 17.47)","1.65 (0.54, 5.07)","2.44 (1.54, 3.88)","1.16 (0.49, 2.75)"]],"container":"<table class=\"display\">\n  <thead>\n    <tr>\n      <th> <\/th>\n      <th>H0<\/th>\n      <th>Overall<\/th>\n      <th>Non-DM<\/th>\n      <th>Pre-DM<\/th>\n      <th>Undiag-DM<\/th>\n      <th>DM<\/th>\n    <\/tr>\n  <\/thead>\n<\/table>","options":{"pageLength":3,"order":[],"autoWidth":false,"orderClasses":false,"columnDefs":[{"orderable":false,"targets":0}],"lengthMenu":[3,10,25,50,100]}},"evals":[],"jsHooks":[]}</script>
 ]
 
 
